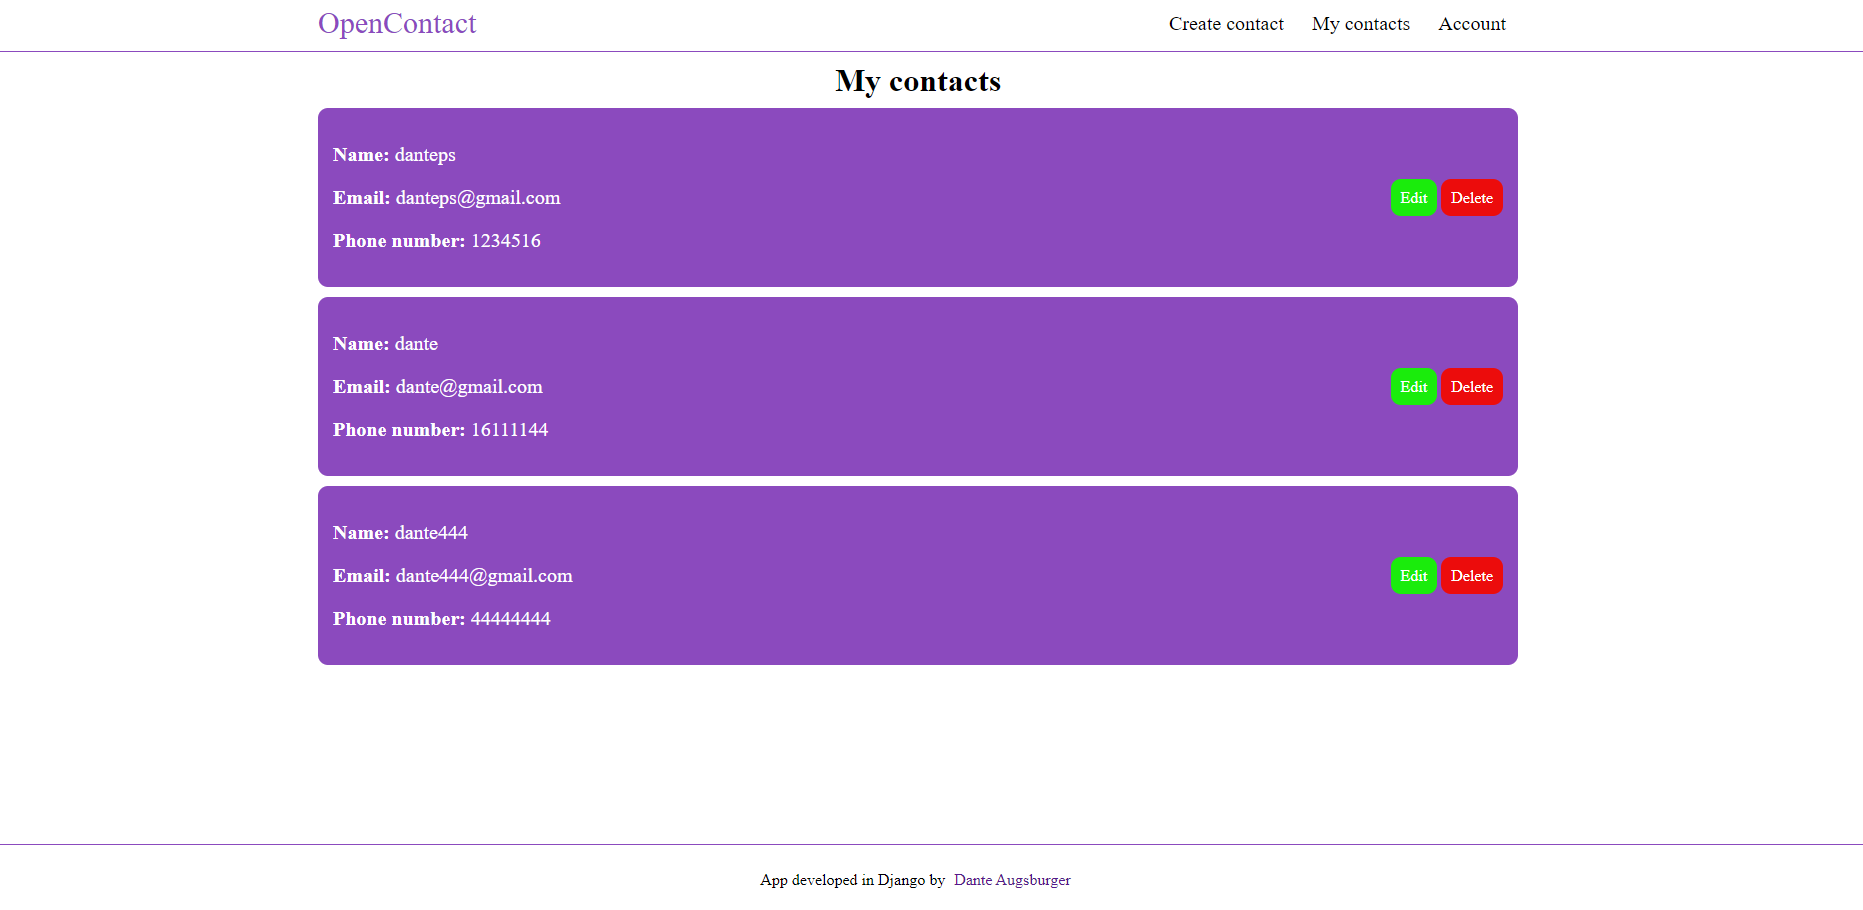
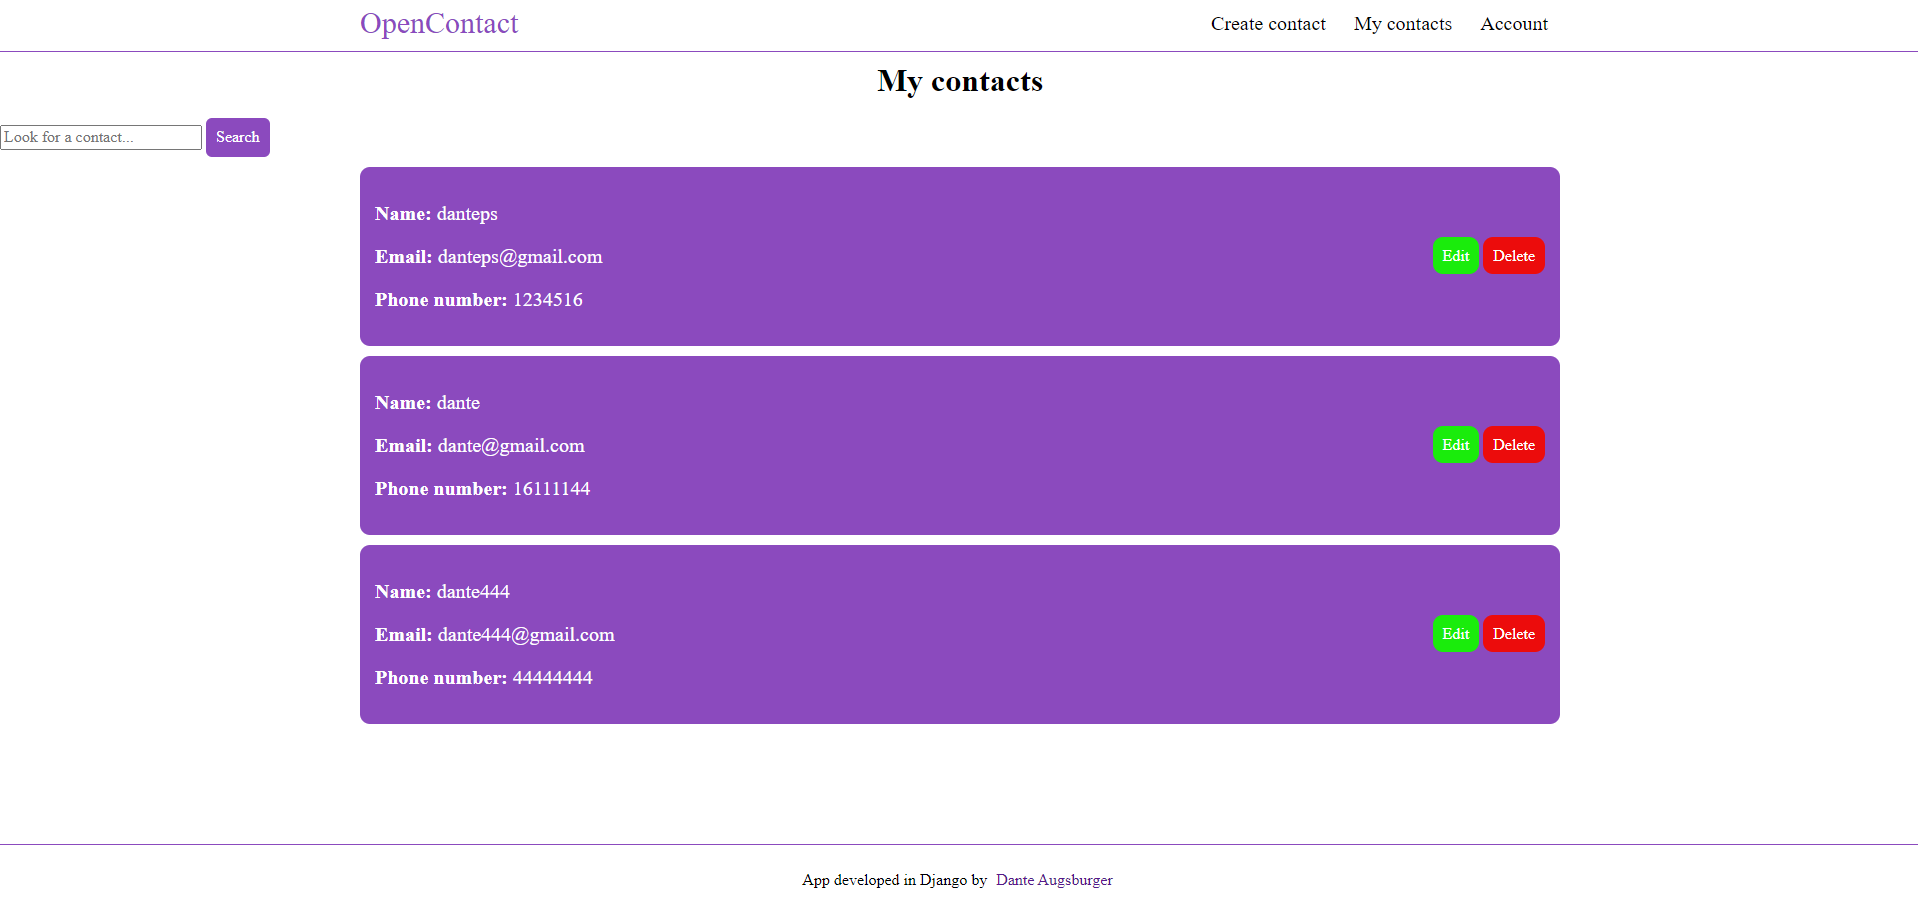
search bar

diff --git a/contact/templates/contact/view.html b/contact/templates/contact/view.html
@@ -1,6 +1,13 @@
 {% extends 'core/base.html' %} {% block title %}My contacts{% endblock %}{% block content %}
 <h1>My contacts</h1>
 
+<div class="search-bar">
+    <form action="" method="get" class="search-form">
+        <input name="query" type="text" value="{{ query }}" placeholder="Look for a contact...">
+        <button class="btn">Search</button>
+    </form>
+</div>
+
 <div class="contacts-container container">
     {% for contact in contacts %}
     <div class="contact">

diff --git a/core/static/css/styles.css b/core/static/css/styles.css
@@ -127,6 +127,10 @@ h1 {
 
 /* MY CONTACTS PAGE */
 
+.search-bar {
+    text-align: center;
+}
+
 .contacts-container {
     display: flex;
     flex-direction: column;

diff --git a/contact/views.py b/contact/views.py
@@ -1,11 +1,17 @@
 from django.shortcuts import render, get_object_or_404, redirect
+from django.db.models import Q
 from .models import Contact
 from .forms import ContactForm
 
 # Create your views here.
 def view(request):
     contacts = Contact.objects.filter(created_by=request.user)
-    return render(request, "contact/view.html", {"contacts": contacts})
+    query = request.GET.get("query", "")
+
+    if query:
+        contacts = contacts.filter(Q(name__icontains=query) | Q(email__icontains=query))
+
+    return render(request, "contact/view.html", {"contacts": contacts, "query": query})
 
 def detail(request, pk):
     contact = get_object_or_404(Contact, pk=pk, created_by=request.user)

diff --git a/README.md b/README.md
@@ -8,12 +8,13 @@ Web App developed in Django where you can store all your contacts and access the
 - Create contacts
 - Edit and delete contacts created by your user
 - Dashboard with all your contacts
+- Search by name or email
 - Update your profile
 
 ## Screenshots
 
 ![home-page](https://github.com/Danteps-4/Django-contact-app/assets/77952824/2bb7f445-30bf-498d-b898-5c0bdf8fbc48)
 ![sign_up_page](https://github.com/Danteps-4/Django-contact-app/assets/77952824/334e5584-5755-4787-82f7-57cbf525a5bd)
-![contacts_page](https://github.com/Danteps-4/Django-contact-app/assets/77952824/2c9097f0-5d88-4c43-b911-d5e83ca56e61)
+![contacts_page](https://github.com/Danteps-4/Django-contact-app/assets/77952824/cab753a8-43d4-4381-9913-bb292d820a5c)
 ![create_contact_page](https://github.com/Danteps-4/Django-contact-app/assets/77952824/b63338ea-3d74-4a00-90a4-2219aea387f9)
 ![account_page](https://github.com/Danteps-4/Django-contact-app/assets/77952824/b734ab71-72fe-48d9-bd47-ce4480e60723)
